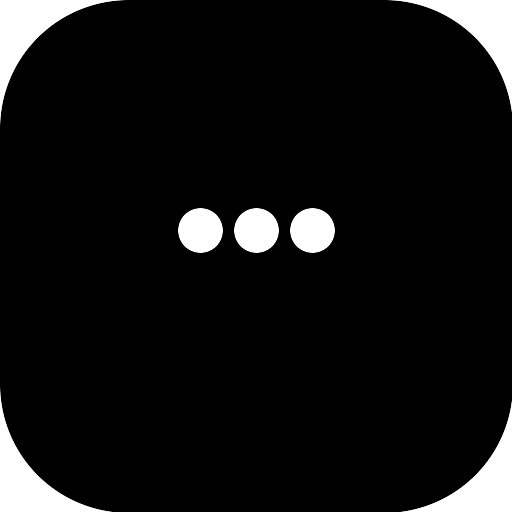
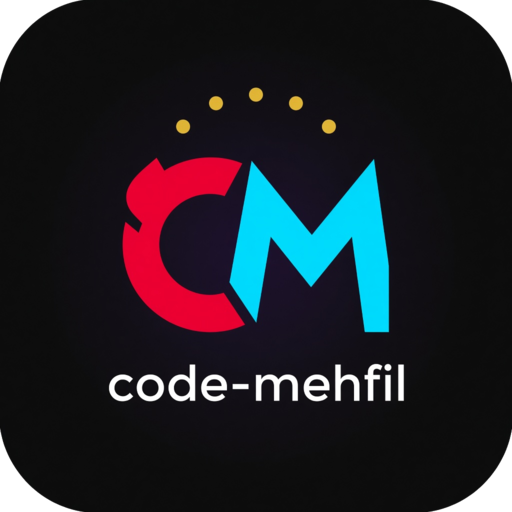
Give CodeMehfil its own CM wordmark and replace loading copy with a spinner.
The old mark was a generic C, and gates like “Checking sign-in…” read as status sentences instead of a single indicator.

diff --git a/frontend/src/app/session/[id]/page.tsx b/frontend/src/app/session/[id]/page.tsx
@@ -26,10 +26,11 @@ import {
 import { Input } from "@/components/ui/input";
 import { SUPPORTED_LANGUAGES } from "@/lib/languages";
 import Link from "next/link";
+import { LoadingIndicator, LoadingScreen } from "@/components/ui/loading-indicator";
 
 const tabFallback = (
-  <div className="h-full flex items-center justify-center text-sm text-muted-foreground">
-    Loading…
+  <div className="h-full flex items-center justify-center">
+    <LoadingIndicator />
   </div>
 );
 
@@ -553,11 +554,7 @@ function SessionWorkspace({ sessionId }: { sessionId: string }) {
   };
 
   if (access === "loading") {
-    return (
-      <div className="h-screen flex items-center justify-center text-sm text-muted-foreground">
-        Verifying session access…
-      </div>
-    );
+    return <LoadingScreen className="h-screen bg-background" />;
   }
 
   if (access === "denied") {
@@ -708,7 +705,7 @@ function SessionWorkspace({ sessionId }: { sessionId: string }) {
               className="shrink-0 flex items-center gap-2 text-xs uppercase tracking-wider text-muted-foreground hover:text-foreground"
             >
               {/* eslint-disable-next-line @next/next/no-img-element */}
-              <img src="/logo.png" alt="" width={22} height={22} className="rounded-md" />
+              <img src="/mark.png" alt="" width={22} height={22} className="rounded-md" />
               <span className="hidden sm:inline">CodeMehfil</span>
             </Link>
             <span className="text-muted-foreground/40 hidden sm:inline">/</span>
@@ -828,10 +825,7 @@ function SessionWorkspace({ sessionId }: { sessionId: string }) {
                   className="gap-2"
                 >
                   {isExecuting ? (
-                    <>
-                      <div className="animate-spin rounded-full h-3 w-3 border-b-2 border-white"></div>
-                      Running...
-                    </>
+                    <LoadingIndicator size={14} tone="light" label="Running" />
                   ) : (
                     <>
                       <TerminalIcon className="w-4 h-4" />
@@ -853,8 +847,8 @@ function SessionWorkspace({ sessionId }: { sessionId: string }) {
                     userName={currentUser?.name}
                   />
                 ) : (
-                  <div className="h-full flex items-center justify-center text-sm text-muted-foreground">
-                    Loading editor…
+                  <div className="h-full flex items-center justify-center">
+                    <LoadingIndicator />
                   </div>
                 )}
               </div>
@@ -895,10 +889,7 @@ function SessionWorkspace({ sessionId }: { sessionId: string }) {
                   />
                 ) : (
                   <div className="flex-1 flex items-center justify-center">
-                    <div className="text-center">
-                      <div className="animate-spin rounded-full h-8 w-8 border-b-2 border-primary mx-auto mb-4"></div>
-                      <p>Loading video room...</p>
-                    </div>
+                    <LoadingIndicator />
                   </div>
                 )}
               </div>

diff --git a/frontend/src/app/sessions/page.tsx b/frontend/src/app/sessions/page.tsx
@@ -10,6 +10,7 @@ import { Plus, Users, Calendar, Search, ArrowUpRight, Sparkles } from "lucide-re
 import { AppNav } from "@/components/dashboard/app-nav";
 import { DashboardStats } from "@/components/dashboard/stat-charts";
 import { RequireAuth } from "@/components/auth/require-auth";
+import { LoadingIndicator } from "@/components/ui/loading-indicator";
 
 interface Session {
   id: string;
@@ -94,30 +95,8 @@ function SessionsPageInner() {
     return (
       <div className="min-h-screen bg-bg-primary">
         <AppNav />
-        <div className="flex min-h-[70vh] flex-col items-center justify-center gap-4">
-          <svg width="72" height="72" viewBox="0 0 72 72">
-            <circle cx="36" cy="36" r="28" fill="none" stroke="rgba(255,0,51,0.2)" strokeWidth="4" />
-            <circle
-              cx="36"
-              cy="36"
-              r="28"
-              fill="none"
-              stroke="#ff0033"
-              strokeWidth="4"
-              strokeDasharray="40 140"
-              strokeLinecap="round"
-            >
-              <animateTransform
-                attributeName="transform"
-                type="rotate"
-                from="0 36 36"
-                to="360 36 36"
-                dur="1s"
-                repeatCount="indefinite"
-              />
-            </circle>
-          </svg>
-          <p className="text-text-muted">Loading your mehfil…</p>
+        <div className="flex min-h-[70vh] items-center justify-center">
+          <LoadingIndicator size={40} />
         </div>
       </div>
     );

diff --git a/frontend/src/app/join/page.tsx b/frontend/src/app/join/page.tsx
@@ -10,6 +10,7 @@ import { Label } from "@/components/ui/label";
 import { BlurOrbs } from "@/components/vr-landing/blur-orbs";
 import { AppNav } from "@/components/dashboard/app-nav";
 import { RequireAuth } from "@/components/auth/require-auth";
+import { LoadingIndicator } from "@/components/ui/loading-indicator";
 
 function JoinForm() {
   const router = useRouter();
@@ -100,7 +101,7 @@ function JoinForm() {
             disabled={isLoading}
             className="w-full bg-accent-red hover:bg-accent-red-hover rounded-full"
           >
-            {isLoading ? "Joining…" : "Join Session"}
+            {isLoading ? <LoadingIndicator size={18} tone="light" label="Joining" /> : "Join Session"}
           </Button>
           <p className="text-center text-sm text-text-muted">
             <Link href="/sessions" className="text-accent-red hover:underline">
@@ -134,8 +135,10 @@ export default function JoinSessionPage() {
                 <Card className="w-full glass border-white/10">
                   <CardHeader>
                     <CardTitle className="text-text-primary">Join a Session</CardTitle>
-                    <CardDescription className="text-text-muted">Loading…</CardDescription>
                   </CardHeader>
+                  <CardContent className="flex justify-center py-8">
+                    <LoadingIndicator />
+                  </CardContent>
                 </Card>
               }
             >

diff --git a/frontend/src/app/auth/signin/page.tsx b/frontend/src/app/auth/signin/page.tsx
@@ -8,6 +8,7 @@ import { Card, CardContent, CardDescription, CardHeader, CardTitle } from "@/com
 import { Input } from "@/components/ui/input";
 import { Label } from "@/components/ui/label";
 import { resolveNextPath } from "@/lib/auth";
+import { LoadingIndicator } from "@/components/ui/loading-indicator";
 
 function SignInForm() {
   const searchParams = useSearchParams();
@@ -93,7 +94,7 @@ function SignInForm() {
             disabled={isLoading}
             className="w-full bg-accent-red hover:bg-accent-red-hover rounded-full"
           >
-            {isLoading ? "Signing in…" : "Sign in"}
+            {isLoading ? <LoadingIndicator size={18} tone="light" label="Signing in" /> : "Sign in"}
           </Button>
           <p className="text-center text-sm text-text-muted">
             No account?{" "}
@@ -128,8 +129,10 @@ export default function SignInPage() {
           <Card className="w-full max-w-md glass border-white/10">
             <CardHeader>
               <CardTitle className="text-text-primary">Sign in</CardTitle>
-              <CardDescription>Loading…</CardDescription>
             </CardHeader>
+            <CardContent className="flex justify-center py-8">
+              <LoadingIndicator />
+            </CardContent>
           </Card>
         }
       >

diff --git a/frontend/src/app/auth/signup/page.tsx b/frontend/src/app/auth/signup/page.tsx
@@ -8,11 +8,12 @@ import { Card, CardContent, CardDescription, CardHeader, CardTitle } from "@/com
 import { Input } from "@/components/ui/input";
 import { Label } from "@/components/ui/label";
 import { resolveNextPath } from "@/lib/auth";
+import { LoadingIndicator } from "@/components/ui/loading-indicator";
 
 export default function SignUpPage() {
   return (
     <div className="relative min-h-screen flex items-center justify-center bg-bg-primary p-4 overflow-hidden">
-      <Suspense fallback={<div className="text-text-muted text-sm">Loading…</div>}>
+      <Suspense fallback={<LoadingIndicator />}>
         <SignUpForm />
       </Suspense>
     </div>
@@ -146,7 +147,7 @@ function SignUpForm() {
             disabled={isLoading}
             className="w-full bg-accent-red hover:bg-accent-red-hover rounded-full"
           >
-            {isLoading ? "Creating…" : "Sign up"}
+            {isLoading ? <LoadingIndicator size={18} tone="light" label="Creating account" /> : "Sign up"}
           </Button>
           <p className="text-center text-sm text-text-muted">
             Already have an account?{" "}

diff --git a/frontend/src/components/ui/loading-indicator.tsx b/frontend/src/components/ui/loading-indicator.tsx
@@ -1,0 +1,46 @@
+export function LoadingIndicator({
+  className = "",
+  size = 36,
+  label = "Loading",
+  tone = "brand",
+}: {
+  className?: string;
+  size?: number;
+  label?: string;
+  /** `light` is for use on the red buttons. */
+  tone?: "brand" | "light";
+}) {
+  const track = tone === "light" ? "rgba(255,255,255,0.35)" : "rgba(255,255,255,0.15)";
+  const head = tone === "light" ? "#ffffff" : "#ff0033";
+
+  return (
+    <div
+      role="status"
+      aria-label={label}
+      className={`inline-flex items-center justify-center ${className}`}
+    >
+      <span
+        className="animate-spin rounded-full border-2"
+        style={{
+          width: size,
+          height: size,
+          borderColor: track,
+          borderTopColor: head,
+        }}
+      />
+      <span className="sr-only">{label}</span>
+    </div>
+  );
+}
+
+export function LoadingScreen({
+  className = "min-h-screen bg-background",
+}: {
+  className?: string;
+}) {
+  return (
+    <div className={`flex items-center justify-center ${className}`}>
+      <LoadingIndicator size={40} />
+    </div>
+  );
+}

diff --git a/frontend/src/app/page.tsx b/frontend/src/app/page.tsx
@@ -127,13 +127,13 @@ export default function HomePage() {
             {/* eslint-disable-next-line @next/next/no-img-element */}
             <img
               src="/logo.png"
-              alt="CodeMehfil"
-              width={88}
-              height={88}
-              className="w-16 h-16 sm:w-[88px] sm:h-[88px] rounded-[18px] sm:rounded-[22px] shadow-[0_0_40px_rgba(255,0,51,0.35)]"
+              alt="code-mehfil"
+              width={280}
+              height={280}
+              className="w-44 h-44 sm:w-64 sm:h-64 drop-shadow-[0_0_40px_rgba(255,0,51,0.28)]"
             />
             <h1 className="text-3xl sm:text-5xl md:text-6xl font-bold tracking-tight text-text-primary px-2">
-              CodeMehfil <span className="text-accent-red">2025</span>
+              CodeMehfil <span className="text-accent-red">2026</span>
             </h1>
           </div>
           <p className="text-base sm:text-xl md:text-2xl text-text-muted max-w-2xl mx-auto px-2">

diff --git a/frontend/src/app/session/new/page.tsx b/frontend/src/app/session/new/page.tsx
@@ -12,6 +12,7 @@ import { BlurOrbs } from "@/components/vr-landing/blur-orbs";
 import { SUPPORTED_LANGUAGES } from "@/lib/languages";
 import { AppNav } from "@/components/dashboard/app-nav";
 import { RequireAuth } from "@/components/auth/require-auth";
+import { LoadingIndicator } from "@/components/ui/loading-indicator";
 
 export default function NewSessionPage() {
   return (
@@ -308,7 +309,7 @@ function NewSessionForm() {
                   disabled={isLoading}
                   className="bg-accent-red hover:bg-accent-red-hover text-white font-semibold rounded-full px-6 py-2 transition-all duration-300 hover:scale-105 hover:shadow-glow-red"
                 >
-                  {isLoading ? "Creating..." : "Create Session"}
+                  {isLoading ? <LoadingIndicator size={18} tone="light" label="Creating session" /> : "Create Session"}
                 </Button>
               </div>
             </form>

diff --git a/frontend/src/components/interview/hackerrank-recommender.tsx b/frontend/src/components/interview/hackerrank-recommender.tsx
@@ -6,6 +6,7 @@ import { Button } from "@/components/ui/button";
 import { Input } from "@/components/ui/input";
 import { Badge } from "@/components/ui/badge";
 import { ExternalLink, Search } from "lucide-react";
+import { LoadingIndicator } from "@/components/ui/loading-indicator";
 import { BankQuestion } from "@/components/questions/question-bank";
 
 interface HackerRankRecommenderProps {
@@ -136,7 +137,11 @@ export function HackerRankRecommender({ onSelectQuestion }: HackerRankRecommende
       </div>
 
       {error ? <p className="text-sm text-destructive">{error}</p> : null}
-      {loading ? <p className="text-sm text-muted-foreground">Loading…</p> : null}
+      {loading ? (
+        <div className="flex justify-center py-6">
+          <LoadingIndicator />
+        </div>
+      ) : null}
 
       <div className="grid grid-cols-1 md:grid-cols-2 gap-3">
         {filtered.map((question) => (

diff --git a/frontend/src/components/questions/question-bank.tsx b/frontend/src/components/questions/question-bank.tsx
@@ -6,6 +6,7 @@ import { Button } from "@/components/ui/button";
 import { Input } from "@/components/ui/input";
 import { Badge } from "@/components/ui/badge";
 import { Search } from "lucide-react";
+import { LoadingIndicator } from "@/components/ui/loading-indicator";
 
 export interface BankQuestion {
   id: string;
@@ -143,7 +144,11 @@ export function QuestionBank({
       </div>
 
       {error ? <p className="text-sm text-destructive">{error}</p> : null}
-      {loading ? <p className="text-sm text-muted-foreground">Loading…</p> : null}
+      {loading ? (
+        <div className="flex justify-center py-6">
+          <LoadingIndicator />
+        </div>
+      ) : null}
 
       <div className="grid grid-cols-1 md:grid-cols-2 gap-3">
         {filteredQuestions.map((question) => (

diff --git a/frontend/src/components/auth/require-auth.tsx b/frontend/src/components/auth/require-auth.tsx
@@ -3,6 +3,7 @@
 import { useEffect, useState, type ReactNode } from "react";
 import { usePathname, useRouter } from "next/navigation";
 import { apiBase, clearAuthToken, getAuthToken, signInPath } from "@/lib/auth";
+import { LoadingScreen } from "@/components/ui/loading-indicator";
 
 interface RequireAuthProps {
   children: ReactNode;
@@ -61,11 +62,7 @@ export function RequireAuth({ children, next }: RequireAuthProps) {
   }, [router, pathname, next]);
 
   if (!ready) {
-    return (
-      <div className="min-h-screen flex items-center justify-center bg-background text-sm text-muted-foreground">
-        Checking sign-in…
-      </div>
-    );
+    return <LoadingScreen />;
   }
 
   return <>{children}</>;

diff --git a/frontend/src/components/dashboard/app-nav.tsx b/frontend/src/components/dashboard/app-nav.tsx
@@ -9,7 +9,7 @@ function BrandMark({ className = "" }: { className?: string }) {
   return (
     // eslint-disable-next-line @next/next/no-img-element
     <img
-      src="/logo.png"
+      src="/mark.png"
       alt="CodeMehfil"
       width={36}
       height={36}
